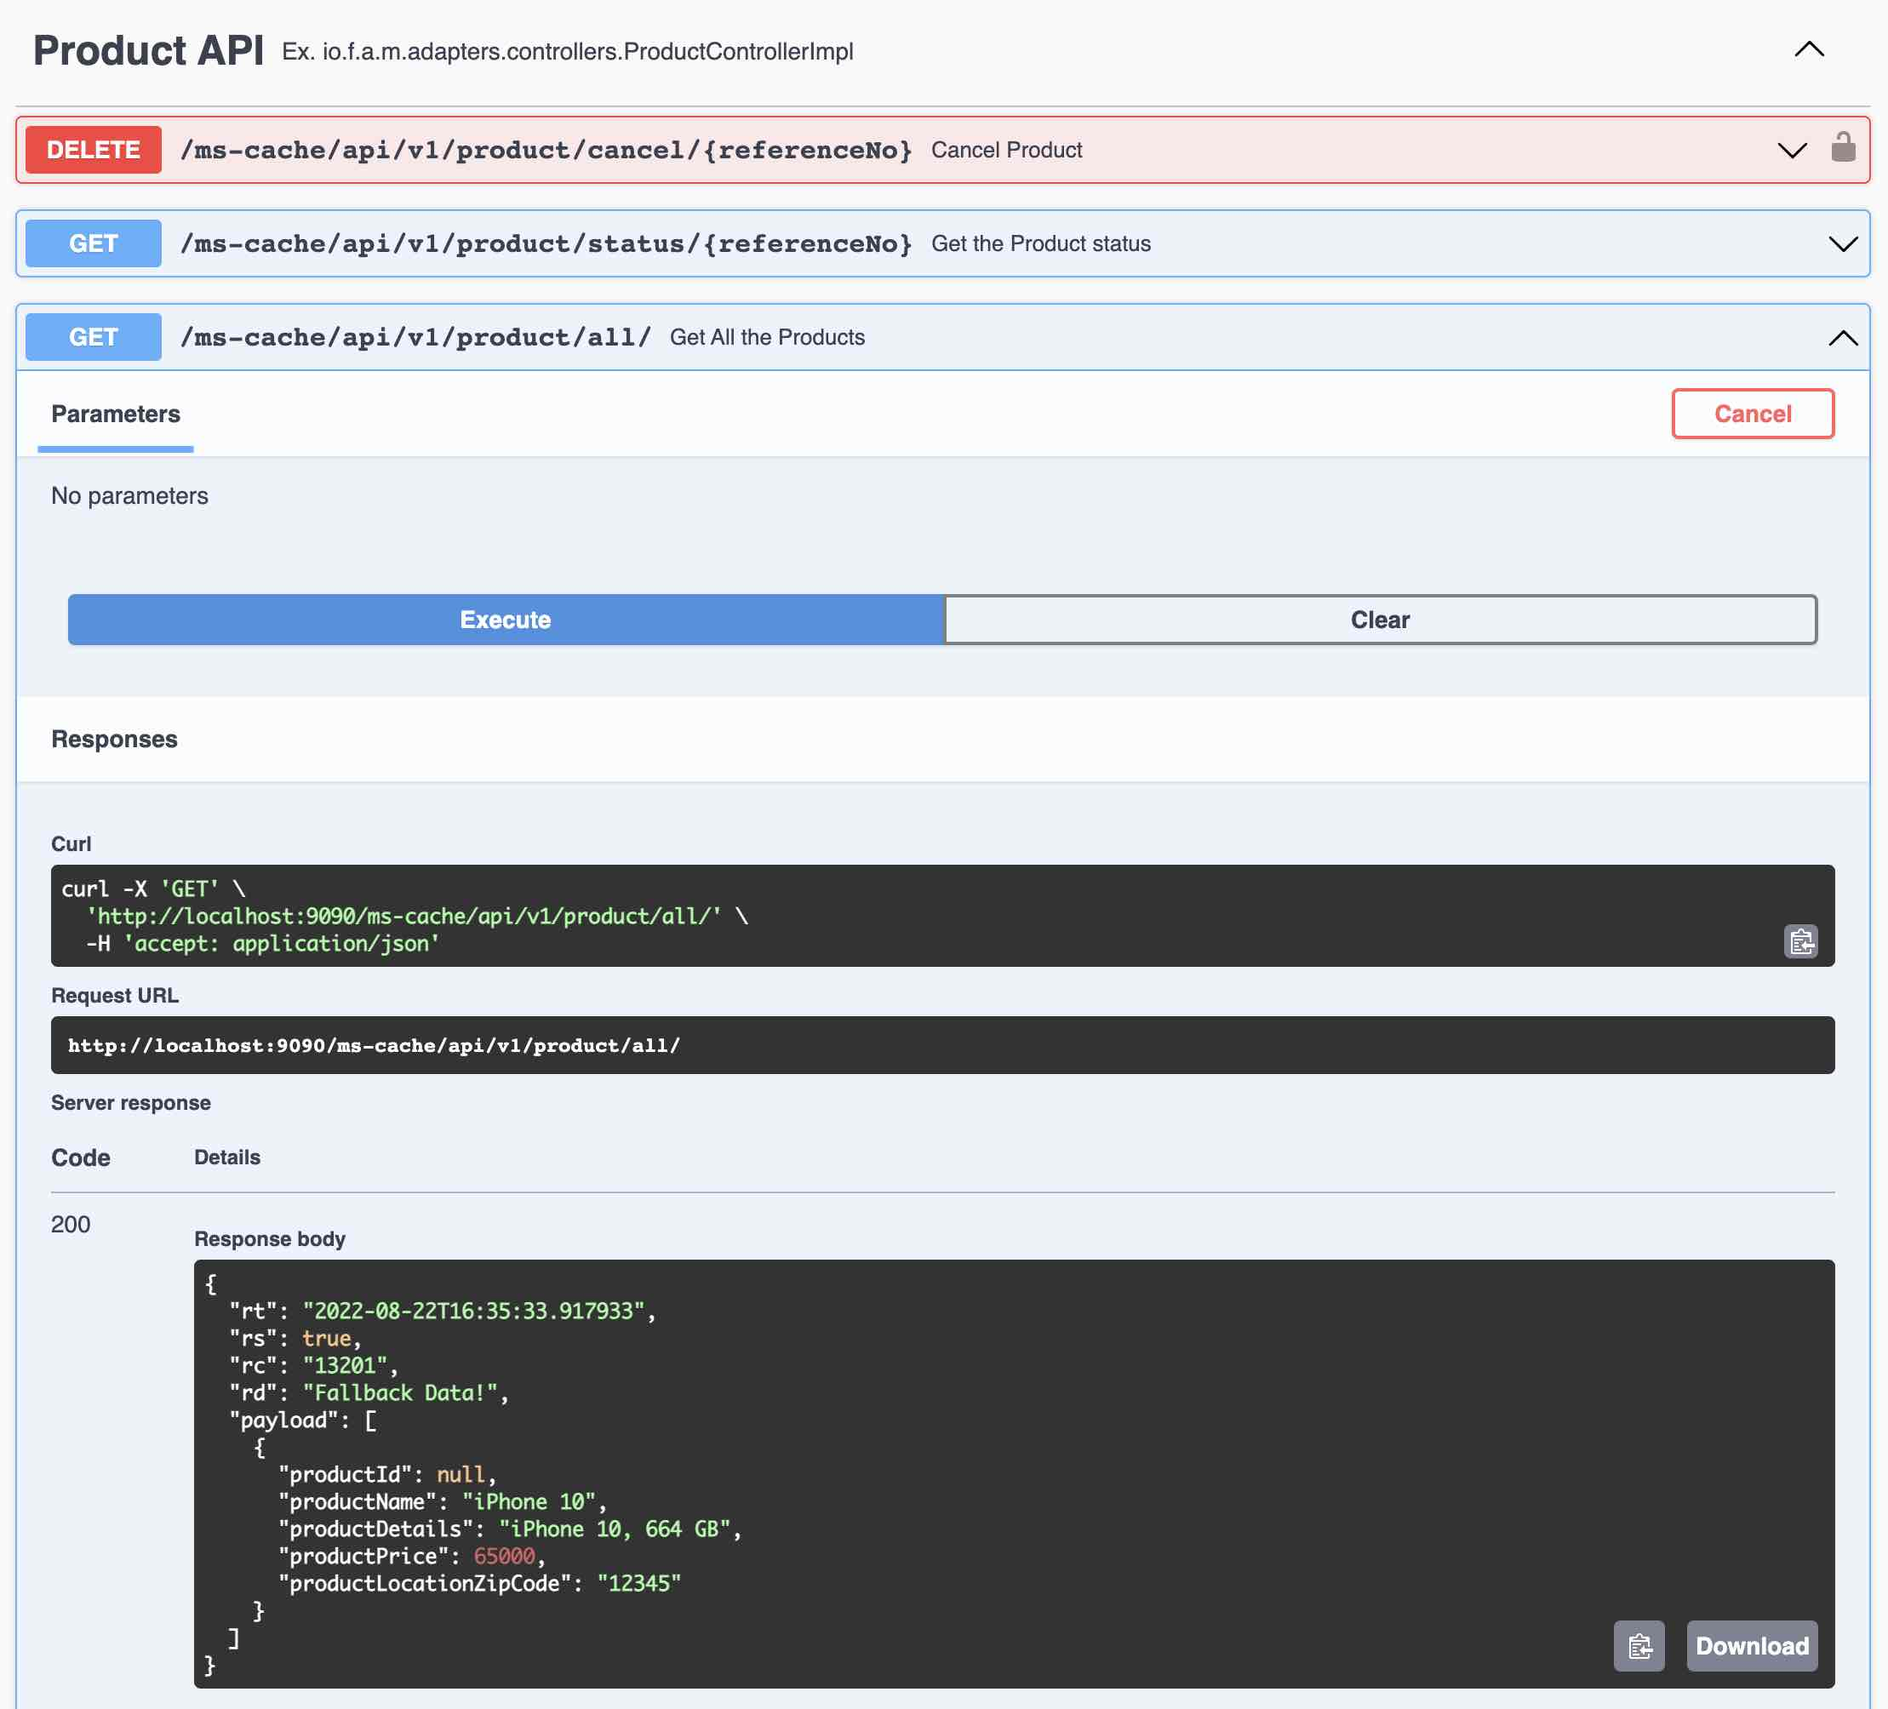
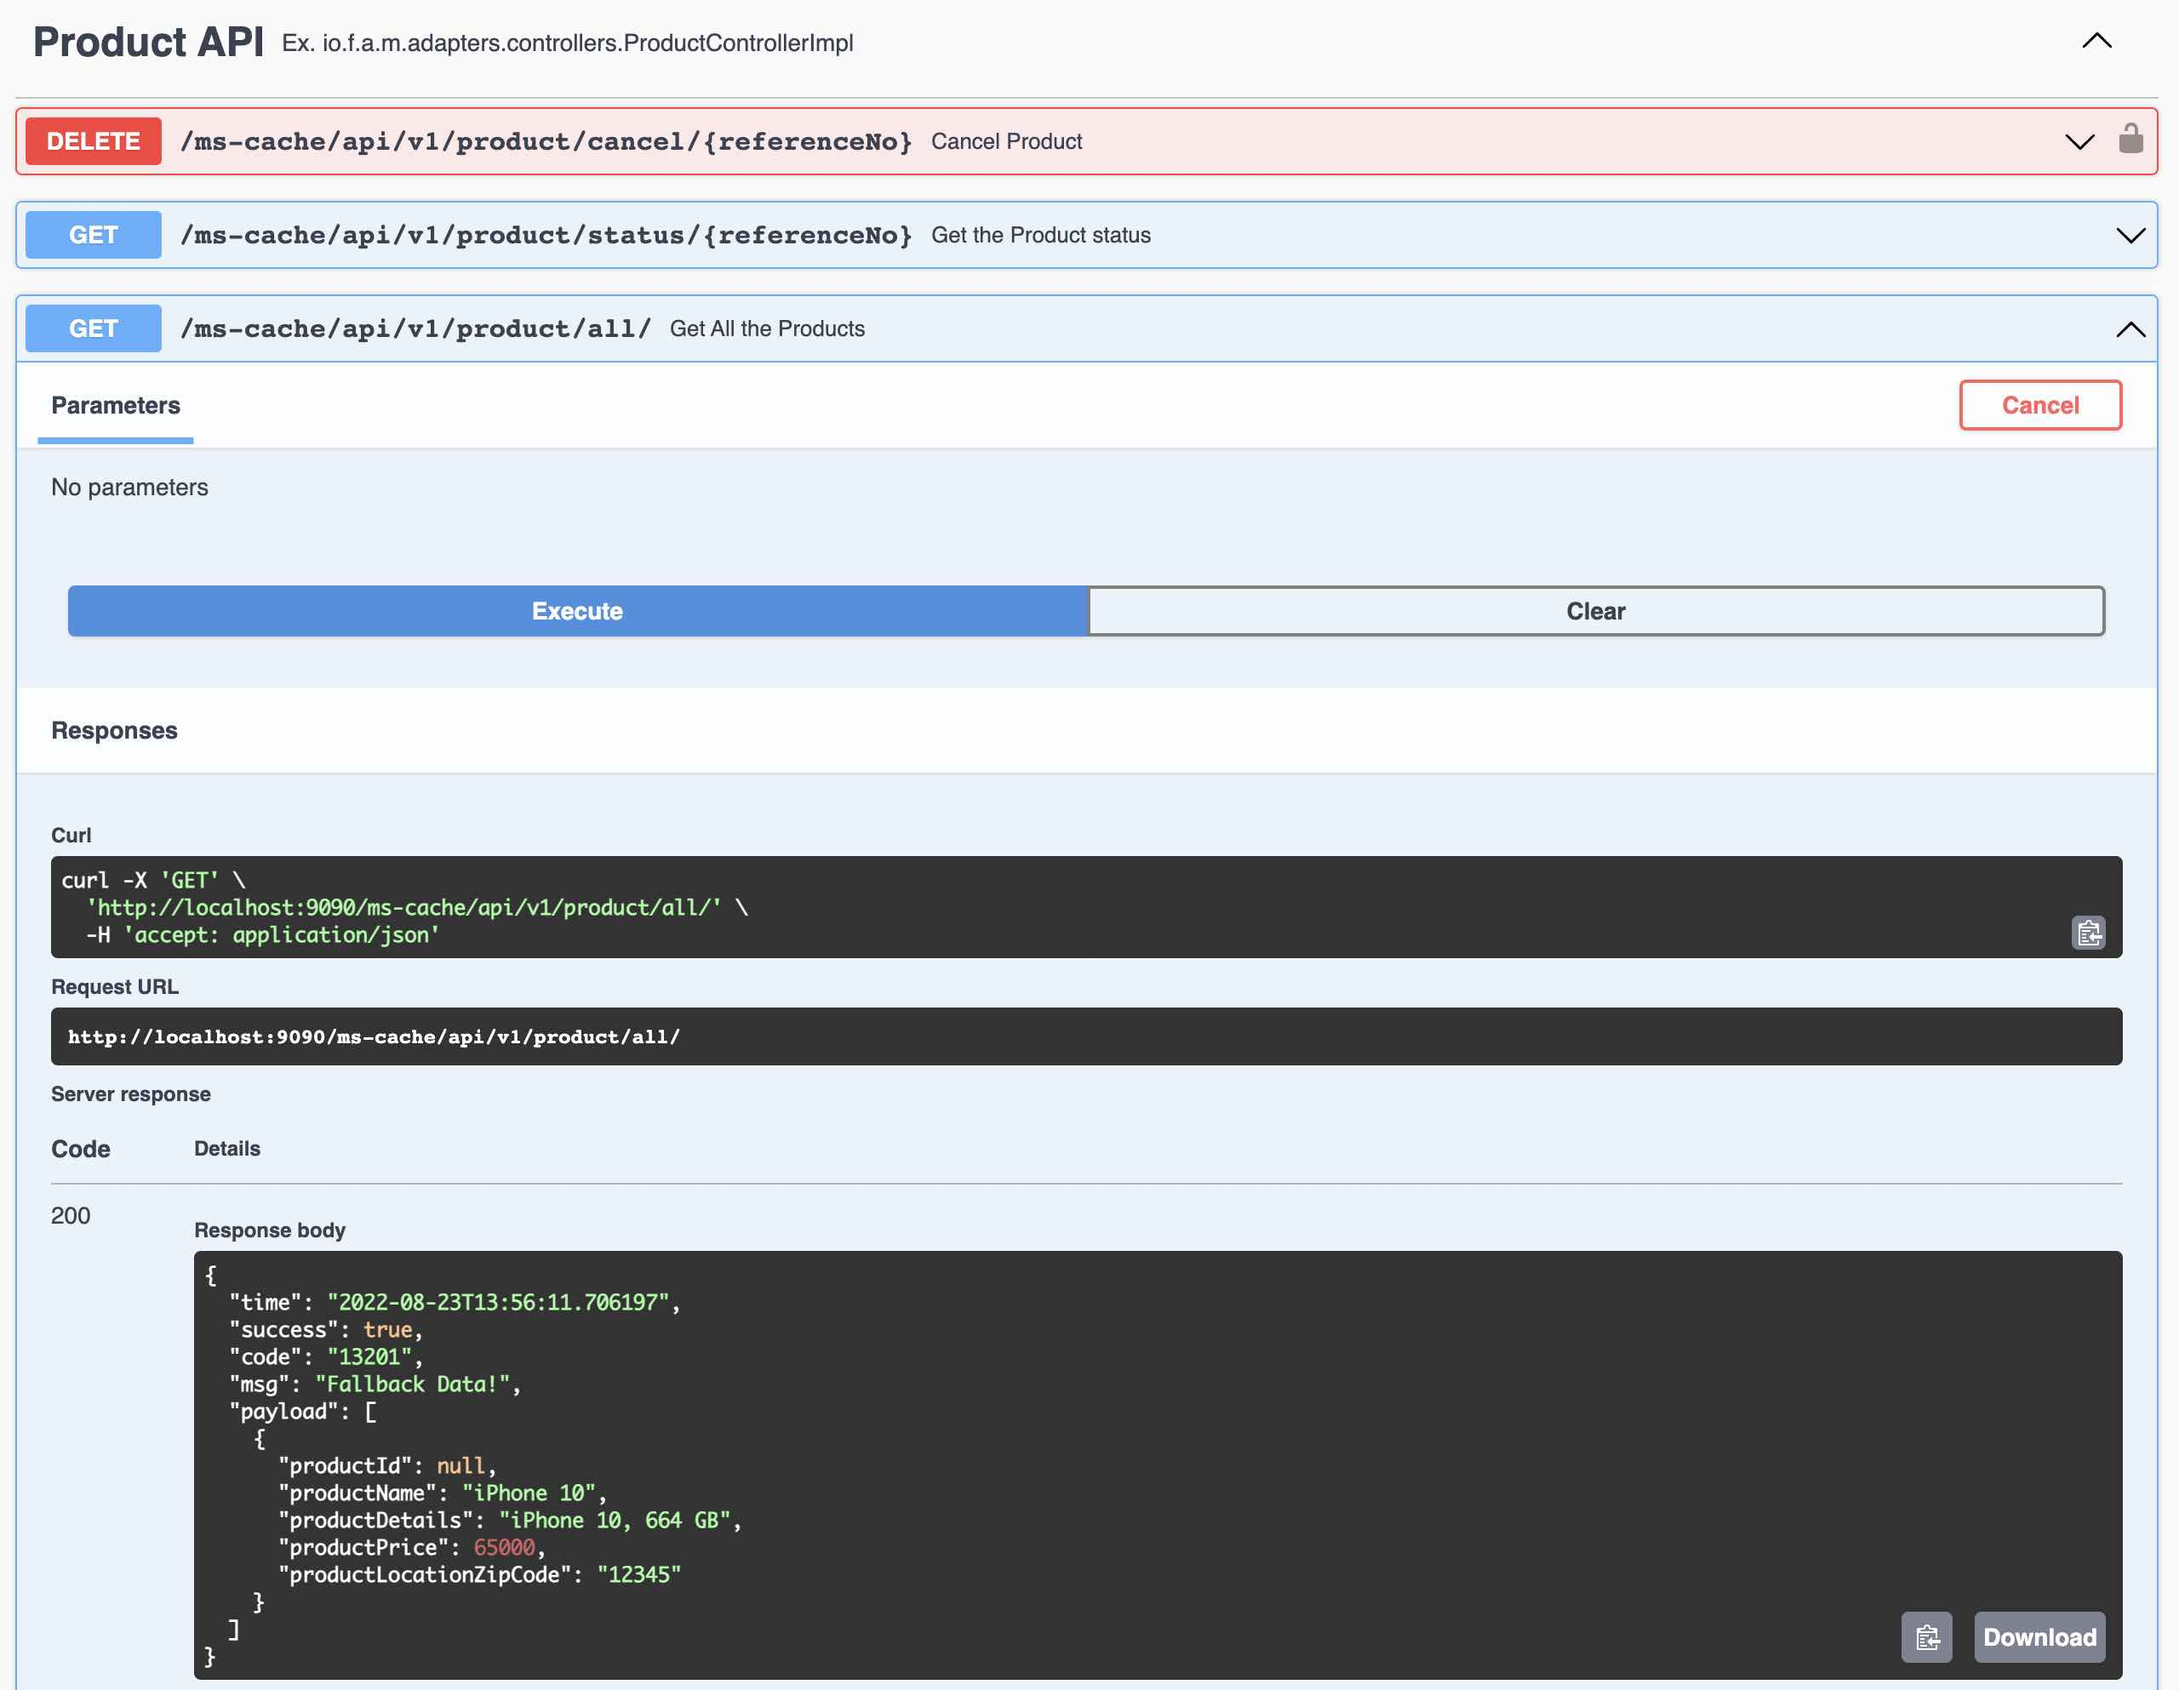
Updated with Error Handling Examples Docs

diff --git a/src/main/java/io/fusion/air/microservice/domain/models/AbstractResponse.java b/src/main/java/io/fusion/air/microservice/domain/models/AbstractResponse.java
@@ -24,25 +24,24 @@ import io.fusion.air.microservice.utils.DateJsonSerializer;
 
 import java.io.Serializable;
 import java.time.LocalDateTime;
-import java.util.Collection;
 
 /**
  * @author: Araf Karsh Hamid
  * @version:
  * @date:
  */
-@JsonPropertyOrder({  "rt", "rs", "rc" , "rd", "payload"})
+@JsonPropertyOrder({  "time", "success", "code" , "msg", "payload"})
 public abstract class AbstractResponse implements Serializable {
 
-    @JsonProperty("rt")
+    @JsonProperty("time")
     @JsonSerialize(using = DateJsonSerializer.class)
     private LocalDateTime requestTime = LocalDateTime.now();
 
-    @JsonProperty("rs")
+    @JsonProperty("success")
     private boolean success = false;
-    @JsonProperty("rc")
+    @JsonProperty("code")
     private String code = "ERROR";
-    @JsonProperty("rd")
+    @JsonProperty("msg")
     private String description = "Default Error Message!";
 
    @JsonProperty("payload")

diff --git a/src/main/java/io/fusion/air/microservice/adapters/controllers/ProductControllerImpl.java b/src/main/java/io/fusion/air/microservice/adapters/controllers/ProductControllerImpl.java
@@ -168,8 +168,8 @@ public class ProductControllerImpl extends AbstractController {
 			stdResponse.setPayload(ps);
 			return ResponseEntity.ok(stdResponse);
 		} else {
-			// throw new DuplicateDataException("Invalid Order Value");
-			 throw new InputDataException("Invalid Order Value");
+			 throw new DuplicateDataException("Invalid Order Value");
+			// throw new InputDataException("Invalid Order Value");
 			// throw new BusinessServiceException("Invalid Order Value");
 			// throw new ControllerException("Invalid Order Value");
 			// throw new ResourceNotFoundException("Invalid Order Value");
